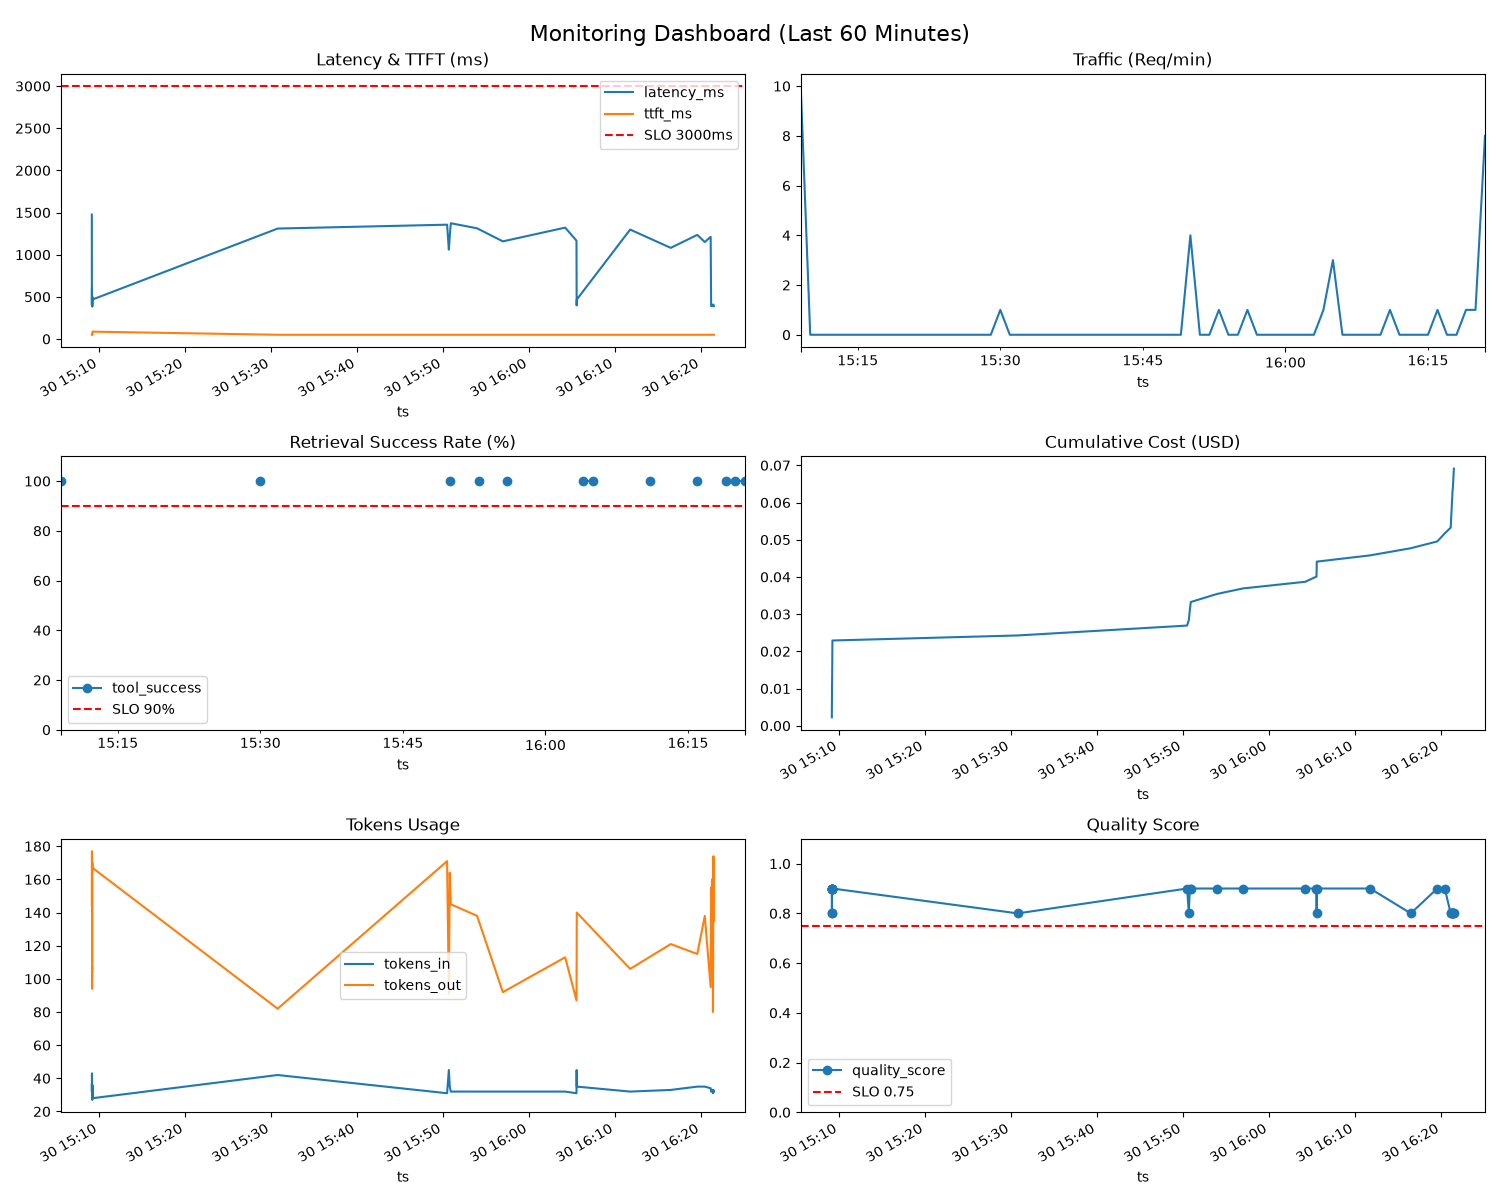
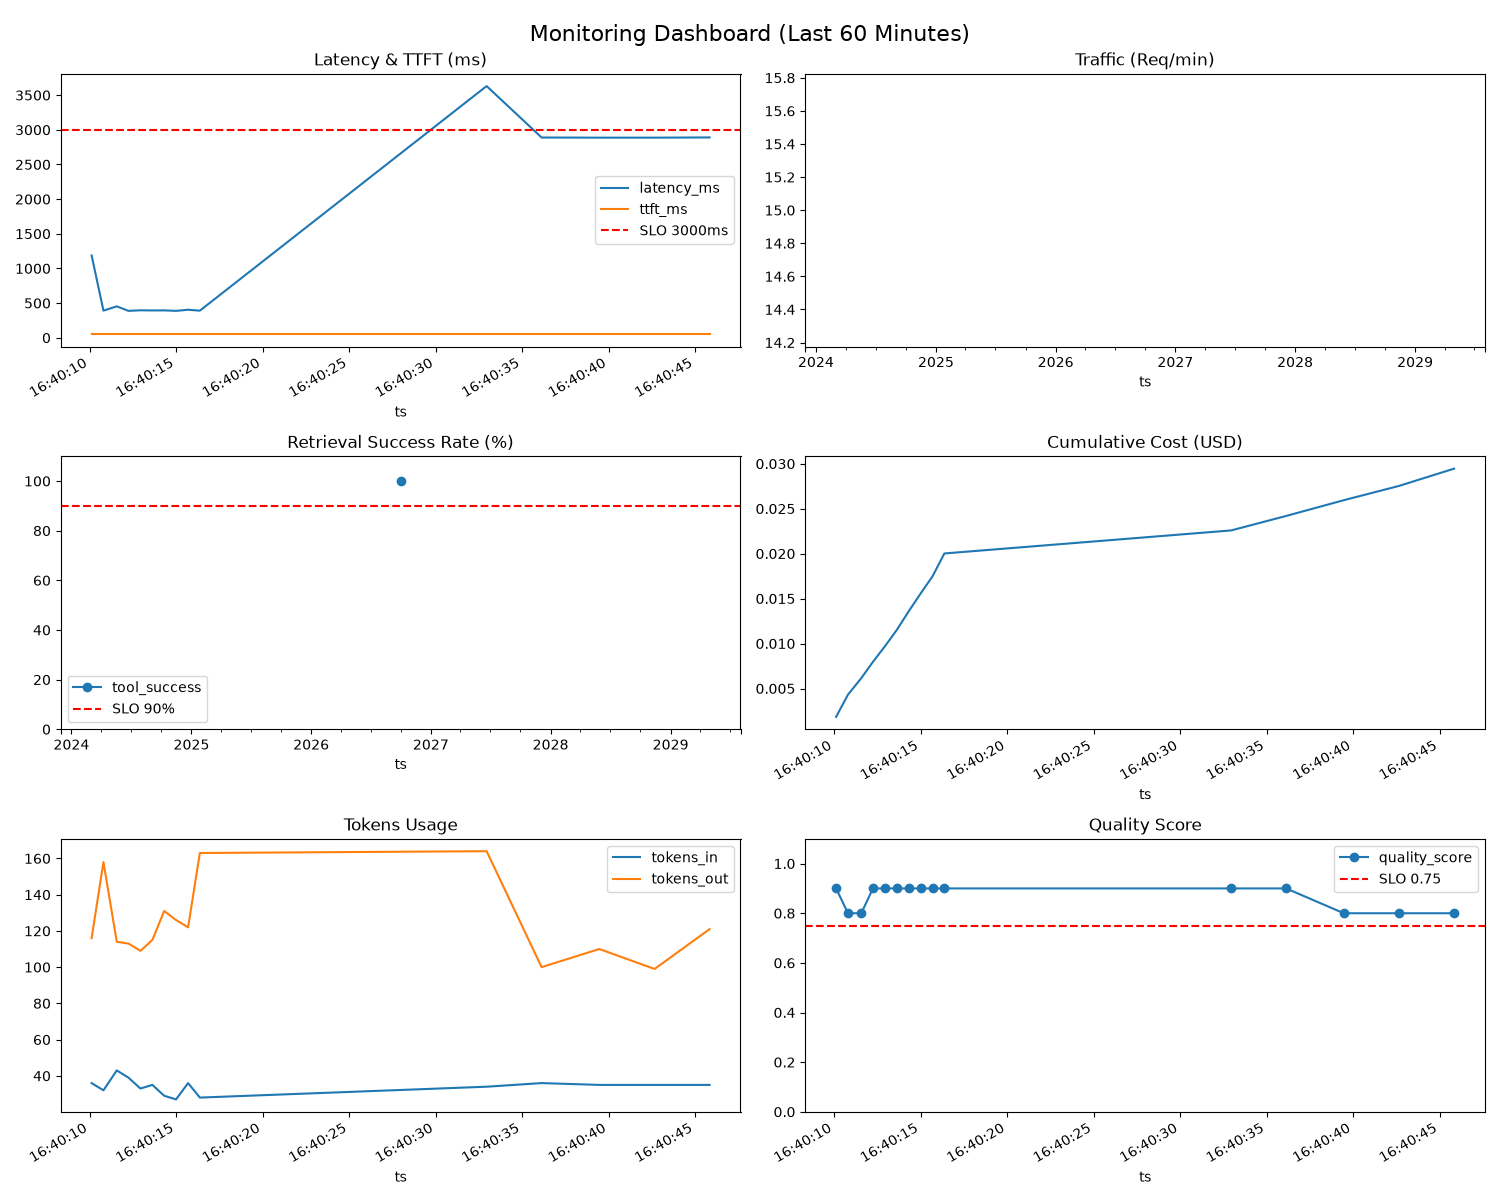
CP3: challange

diff --git a/app/agent.py b/app/agent.py
@@ -88,7 +88,8 @@ class LabAgent:
             quality_score=quality_score,
         )
 
-        langfuse_client.flush()
+        if hasattr(langfuse_client, "flush"):
+            langfuse_client.flush()
 
         return AgentResult(
             answer=response.text,
